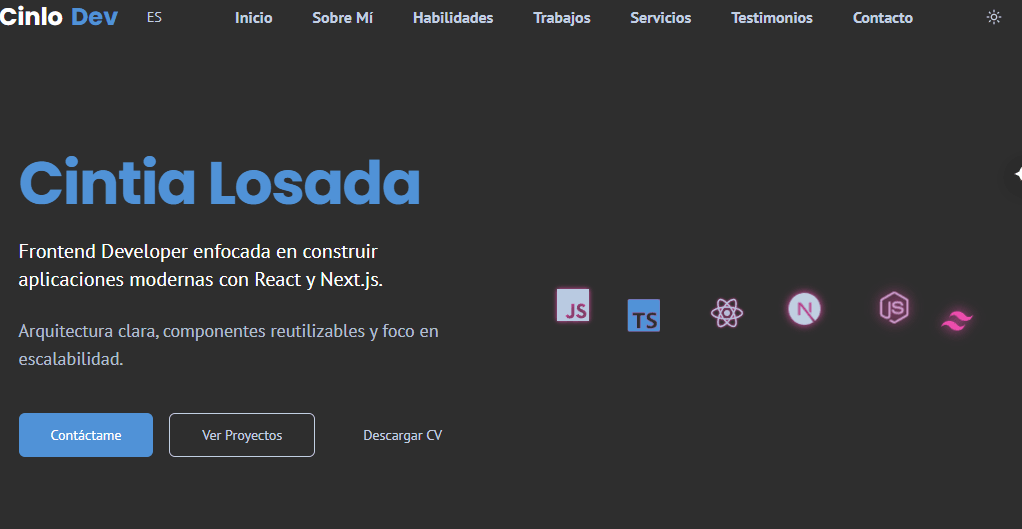
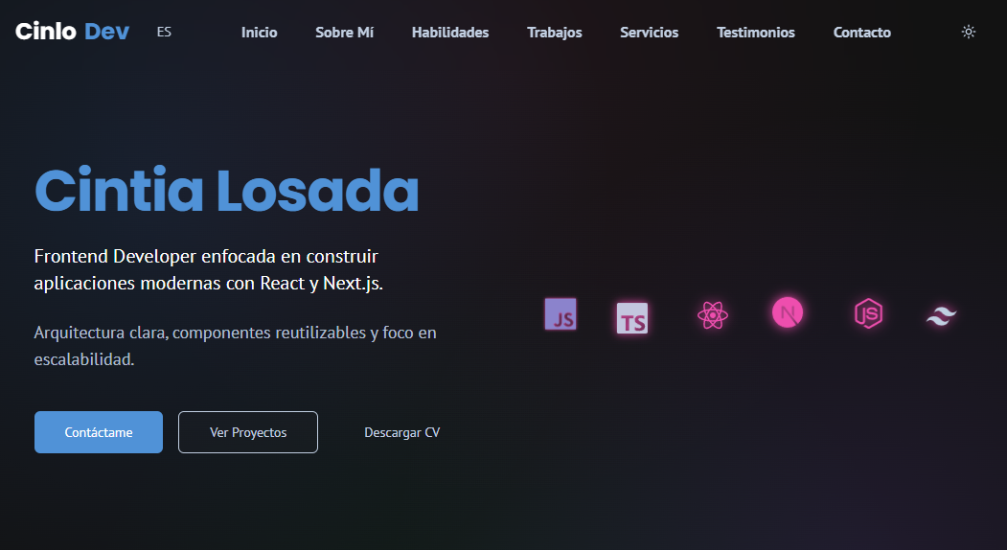
feat(ui): implementar fondo radial con gradientes coloridos y ajustes de estilos en general en modo dark

diff --git a/src/app/components/work-showcase.tsx b/src/app/components/work-showcase.tsx
@@ -13,7 +13,7 @@ const WorkShowcase: React.FC<Props> = () => {
     const { t } = useLocale()
 
     return (
-        <section id="work" className="w-full py-12 bg-background">
+        <section id="work" className="w-full py-12">
             <div className="container mx-auto px-4 md:px-6">
                 <div className="text-center max-w-2xl mx-auto">
                     <h2 className="text-3xl font-bold tracking-tight text-foreground sm:text-4xl">{t('projects.heading')}</h2>
@@ -24,7 +24,7 @@ const WorkShowcase: React.FC<Props> = () => {
                 {projects.map((project) => (
                     <article key={project.id} className="group relative h-full">
                         <div className="rounded-lg overflow-hidden h-full">
-                          <Link href={`/projects/${project.id}`} className="block rounded-lg border overflow-hidden bg-muted/20 hover:scale-101 transition-transform duration-200 cursor-pointer h-full flex flex-col">
+                          <Link href={`/projects/${project.id}`} className="block rounded-lg border overflow-hidden bg-card hover:scale-101 transition-transform duration-200 cursor-pointer h-full flex flex-col">
                               <div className="relative w-full flex-shrink-0 h-40 sm:h-52">
                                 {project.image ? (
                                     <Image src={project.image.imageUrl} alt={project.image.description} fill sizes="(min-width: 1024px) 33vw, (min-width: 640px) 50vw, 100vw" className="object-cover" />
@@ -32,15 +32,14 @@ const WorkShowcase: React.FC<Props> = () => {
                                     <div className="h-52 w-full bg-muted" />
                                 )}
                             </div>
-                            <div className="p-4 flex-1 bg-card">
+                            <div className="p-4 flex-1">
                                 <h3 className="text-lg font-semibold text-foreground dark:text-white">{t(project.titleKey)}</h3>
                                 <p className="text-sm text-muted-foreground dark:text-white mt-1">{t(project.descriptionKey)}</p>
                             </div>
-                            <div className="p-3 border-t text-sm bg-card text-pink-600 flex-shrink-0">
+                            <div className="p-3 border-t text-sm text-pink-600 flex-shrink-0">
                                 {t('projects.viewMore') || 'Ver más'}
                             </div>
                           </Link>
-                                               
                         </div>
                     </article>
                 ))}

diff --git a/src/app/components/testimonials-section.tsx b/src/app/components/testimonials-section.tsx
@@ -17,7 +17,7 @@ import { Card, CardContent } from '@/components/ui/card';
 export default function TestimonialsSection() {
     const { t } = useLocale();
     return (
-        <section id="testimonials" className="w-full py-16 bg-background">
+        <section id="testimonials" className="w-full py-16">
             <div className="container mx-auto px-4 md:px-6">
                 <div className="text-center max-w-2xl mx-auto">
                     <h2 className="text-3xl font-bold font-headline tracking-tight text-foreground sm:text-4xl">
@@ -49,8 +49,8 @@ export default function TestimonialsSection() {
                                                     </blockquote>
                                                   </div>
                                                   <div className="mt-6">
-                                                  <p className="font-semibold">{t(testimonial.authorKey)}</p>
-                                                  <p className="text-sm text-muted-foreground">{t(testimonial.companyKey)}</p>
+                                                    <p className="font-semibold">{t(testimonial.authorKey)}</p>
+                                                    <p className="text-sm text-secondary">{t(testimonial.companyKey)}</p>
                                                   </div>
                                               </CardContent>
                                           </Card>

diff --git a/src/app/globals.css b/src/app/globals.css
@@ -41,7 +41,7 @@
   .dark {
     --background: 0 0% 18%;             /* #2e2e2e */
     --foreground: 214 36% 82%;          /* #b0c4de */
-    --card: 0 0% 18%;                   /* #2e2e2e */
+    --card: 0 0% 18% / 0.1;             /* #2e2e2e con 10% opacidad */
     --card-foreground: 214 36% 82%;     /* #b0c4de */
     --popover: 0 0% 18%;                /* #2e2e2e */
     --popover-foreground: 214 36% 82%;  /* #b0c4de */
@@ -82,6 +82,17 @@ html.light body {
     radial-gradient(circle at 50% 10%, rgba(236,72,153,0.14), transparent 50%),
     radial-gradient(circle at 50% 90%, rgba(16,185,129,0.12), transparent 50%);
   
+  background-attachment: fixed;
+  background-repeat: no-repeat;
+}
+
+html.dark body {
+  background-color: #121212;
+  background-image:
+    radial-gradient(circle at 15% 25%, rgba(59,130,246,0.12), transparent 45%),
+    radial-gradient(circle at 85% 75%, rgba(139,92,246,0.12), transparent 45%),
+    radial-gradient(circle at 50% 10%, rgba(236,72,153,0.06), transparent 50%),
+    radial-gradient(circle at 50% 90%, rgba(16,185,129,0.08), transparent 50%);
   background-attachment: fixed;
   background-repeat: no-repeat;
 }

diff --git a/src/app/components/hero-section.tsx b/src/app/components/hero-section.tsx
@@ -25,7 +25,7 @@ export default function HeroSection() {
                 {t('hero.whatsapp')}
                 </span>
             </a>
-           <section className="w-full py-16 md:py-24 bg-background">
+           <section className="w-full py-16 md:py-24">
                 <div className="container mx-auto px-4 md:px-6">
                     
                     <div className="grid items-center gap-12 lg:grid-cols-2">
@@ -61,7 +61,7 @@ export default function HeroSection() {
                                 asChild
                                 variant="outline"
                                 size="lg"
-                                className="w-full sm:w-auto hover:bg-secondary/50 hero-view-projects-btn"
+                                className="w-full sm:w-auto hover:bg-secondary/50 hero-view-projects-btn dark:bg-card dark:hover:bg-secondary/50"
                             >
                                 <Link href="#work">{t('hero.viewProjects')}</Link>
                             </Button>

diff --git a/src/components/ui/input.tsx b/src/components/ui/input.tsx
@@ -8,7 +8,7 @@ const Input = React.forwardRef<HTMLInputElement, React.ComponentProps<"input">>(
       <input
         type={type}
         className={cn(
-          "flex h-10 w-full rounded-md border border-input bg-background px-3 py-2 text-base ring-offset-background file:border-0 file:bg-transparent file:text-sm file:font-medium file:text-foreground placeholder:text-muted-foreground focus-visible:outline-none focus-visible:ring-2 focus-visible:ring-ring focus-visible:ring-offset-2 disabled:cursor-not-allowed disabled:opacity-50 md:text-sm",
+          "flex h-10 w-full rounded-md border border-input bg-background dark:bg-card px-3 py-2 text-base ring-offset-background file:border-0 file:bg-transparent file:text-sm file:font-medium file:text-foreground placeholder:text-muted-foreground focus-visible:outline-none focus-visible:ring-2 focus-visible:ring-ring focus-visible:ring-offset-2 disabled:cursor-not-allowed disabled:opacity-50 md:text-sm",
           className
         )}
         ref={ref}

diff --git a/src/app/projects/ProjectPageClient.tsx b/src/app/projects/ProjectPageClient.tsx
@@ -165,7 +165,7 @@ export default function ProjectPageClient({ id }: Props) {
         <div className="grid grid-cols-2 md:grid-cols-4 lg:grid-cols-6 gap-4 justify-items-center">
           {projects.map((p) => (
             <div key={p.id} className="w-full rounded-lg overflow-hidden h-full">
-              <Link key={p.id} href={`/projects/${p.id}`} className="block w-full rounded-lg overflow-hidden border bg-card hover:shadow-lg transition h-full flex flex-col">
+              <Link key={p.id} href={`/projects/${p.id}`} className="block w-full rounded-lg overflow-hidden border bg-card dark:bg-card/80 hover:shadow-lg transition h-full flex flex-col">
                 <div className="relative h-32 w-full bg-muted/10 flex-shrink-0">
                   {p.image ? (
                     <Image src={p.image.imageUrl} alt={p.image.description || t(p.titleKey)} fill sizes="(min-width: 1024px) 16.6vw, (min-width: 768px) 25vw, 50vw" className="object-cover" />

diff --git a/src/app/projects/ProjectsIndexClient.tsx b/src/app/projects/ProjectsIndexClient.tsx
@@ -20,7 +20,7 @@ export default function ProjectsIndexClient() {
         <div className="grid grid-cols-2 md:grid-cols-4 lg:grid-cols-6 gap-4 justify-items-center">
           {projects.map((p) => (
             <div key={p.id} className="w-full rounded-lg overflow-hidden h-full card-project">
-              <Link href={`/projects/${p.id}`} className="block w-full rounded-lg overflow-hidden border bg-card hover:shadow-lg transition h-full flex flex-col">
+              <Link href={`/projects/${p.id}`} className="block w-full rounded-lg overflow-hidden border bg-card dark:bg-card/80 hover:shadow-lg transition h-full flex flex-col">
                 <div className="relative h-40 w-full bg-muted/10 flex-shrink-0">
                   {p.image ? (
                     <Image src={p.image.imageUrl} alt={p.image.description || t(p.titleKey)} fill sizes="(min-width: 1024px) 16.6vw, (min-width: 768px) 25vw, 50vw" className="object-cover" />

diff --git a/src/components/ui/textarea.tsx b/src/components/ui/textarea.tsx
@@ -7,7 +7,7 @@ const Textarea = React.forwardRef<HTMLTextAreaElement, React.ComponentProps<'tex
     return (
       <textarea
         className={cn(
-          'flex min-h-[80px] w-full rounded-md border border-input bg-background px-3 py-2 text-base ring-offset-background placeholder:text-muted-foreground focus-visible:outline-none focus-visible:ring-2 focus-visible:ring-ring focus-visible:ring-offset-2 disabled:cursor-not-allowed disabled:opacity-50 md:text-sm',
+          'flex min-h-[80px] w-full rounded-md border border-input bg-background dark:bg-card px-3 py-2 text-base ring-offset-background placeholder:text-muted-foreground focus-visible:outline-none focus-visible:ring-2 focus-visible:ring-ring focus-visible:ring-offset-2 disabled:cursor-not-allowed disabled:opacity-50 md:text-sm',
           className
         )}
         ref={ref}

diff --git a/src/components/header.tsx b/src/components/header.tsx
@@ -1,4 +1,4 @@
- 'use client';
+'use client';
 import { useState, useEffect } from 'react';
 import Link from 'next/link';
 import { Menu, X } from 'lucide-react';
@@ -62,10 +62,7 @@ export default function Header() {
     const closeMenu = () => setIsOpen(false);
     return (
         <header
-            className={cn(
-                'sticky top-0 z-50 w-full transition-all duration-300',
-                isScrolled ? 'bg-background/80 backdrop-blur-sm border-b' : 'bg-background'
-            )}
+            className="sticky top-0 z-50 w-full transition-all duration-300 bg-transparent backdrop-blur"
             >
             <div className="mx-auto flex h-20 w-full max-w-[1200px] items-center justify-between px-4 md:px-6">
                 <div className="flex items-center gap-2 logo-wrapper" aria-label="Inicio" role="banner">

diff --git a/src/app/components/skills-section.tsx b/src/app/components/skills-section.tsx
@@ -8,7 +8,7 @@ import { useLocale } from '@/components/language-provider';
 export default function SkillsSection() {
     const { t } = useLocale();
     return (
-        <section id="skills" aria-labelledby="skills-title" className="w-full py-16 bg-background">
+        <section id="skills" aria-labelledby="skills-title" className="w-full py-16">
             <div className="container mx-auto px-4 md:px-6">
                 <div className="text-center max-w-2xl mx-auto">
                     <h3 id="skills-title" className="text-3xl font-bold font-headline tracking-tight text-foreground sm:text-4xl mb-2">

diff --git a/src/app/components/services-section.tsx b/src/app/components/services-section.tsx
@@ -8,7 +8,7 @@ import { Card, CardHeader, CardTitle, CardDescription, CardContent } from '@/com
 export default function ServicesSection() {
     const { t } = useLocale();
     return (
-        <section id="services" className="w-full py-16 bg-background">
+        <section id="services" className="w-full py-16">
             <div className="container mx-auto px-4 md:px-6">
                 <div className="text-center max-w-2xl mx-auto">
                 <h2 className="text-3xl font-bold font-headline tracking-tight text-foreground sm:text-4xl">

diff --git a/src/app/components/about-section.tsx b/src/app/components/about-section.tsx
@@ -8,7 +8,7 @@ import { useLocale } from '@/components/language-provider';
 export default function AboutSection() {
     const { t } = useLocale();
     return (
-        <section id="about" className="w-full py-16  bg-background">
+        <section id="about" className="w-full py-16 ">
             <div className="container mx-auto px-4 md:px-6">
                 {/* Título siempre arriba y centrado */}
                 <h2 className="text-3xl font-bold font-headline tracking-tight text-blue-700 sm:text-4xl mb-8 text-center">
